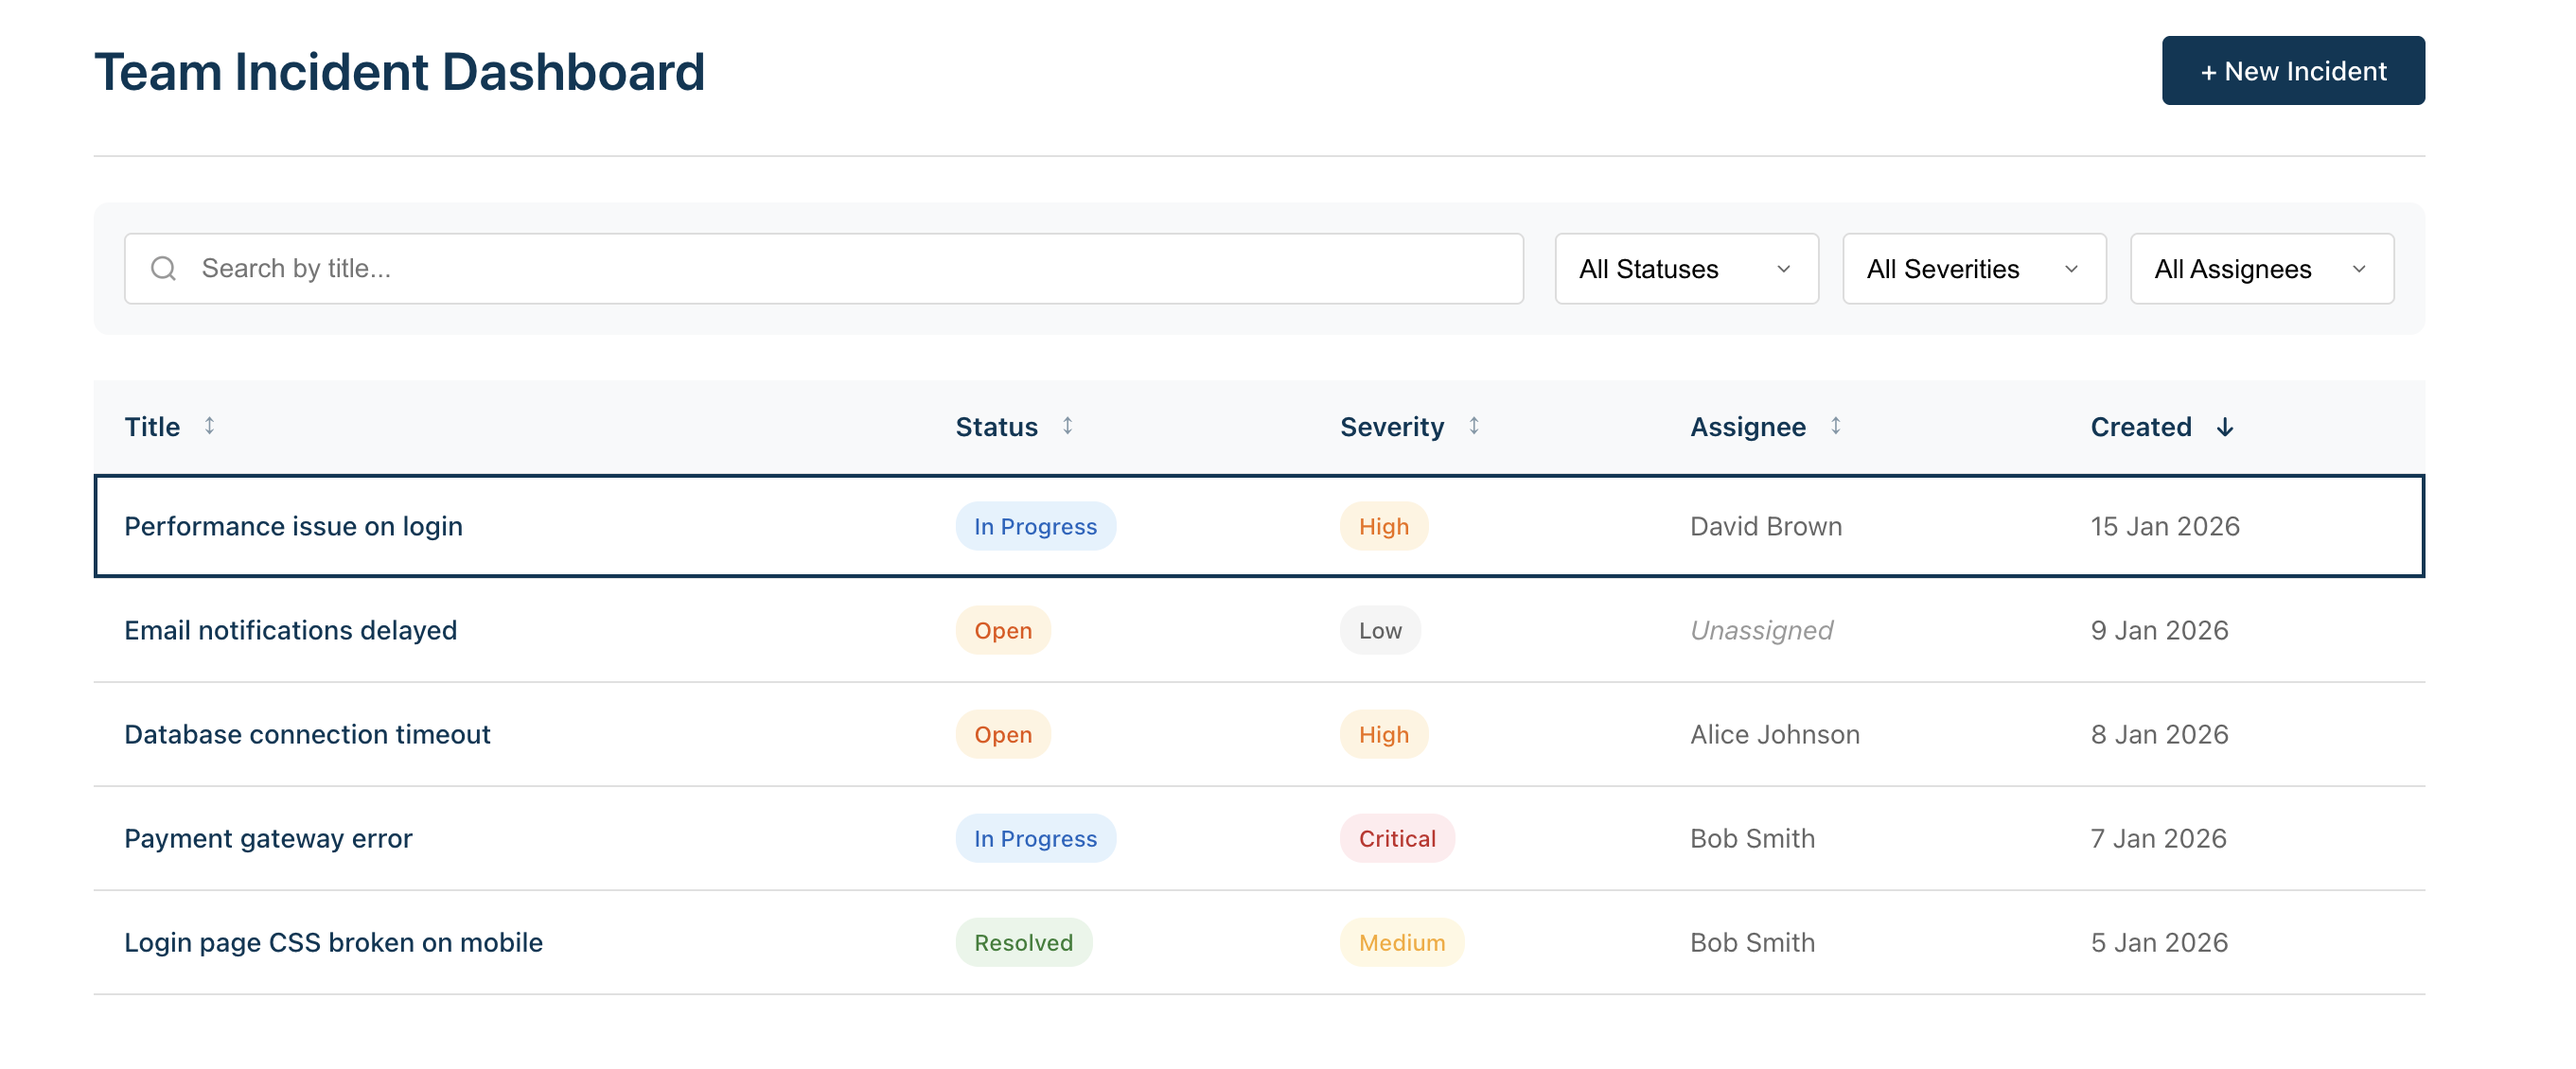
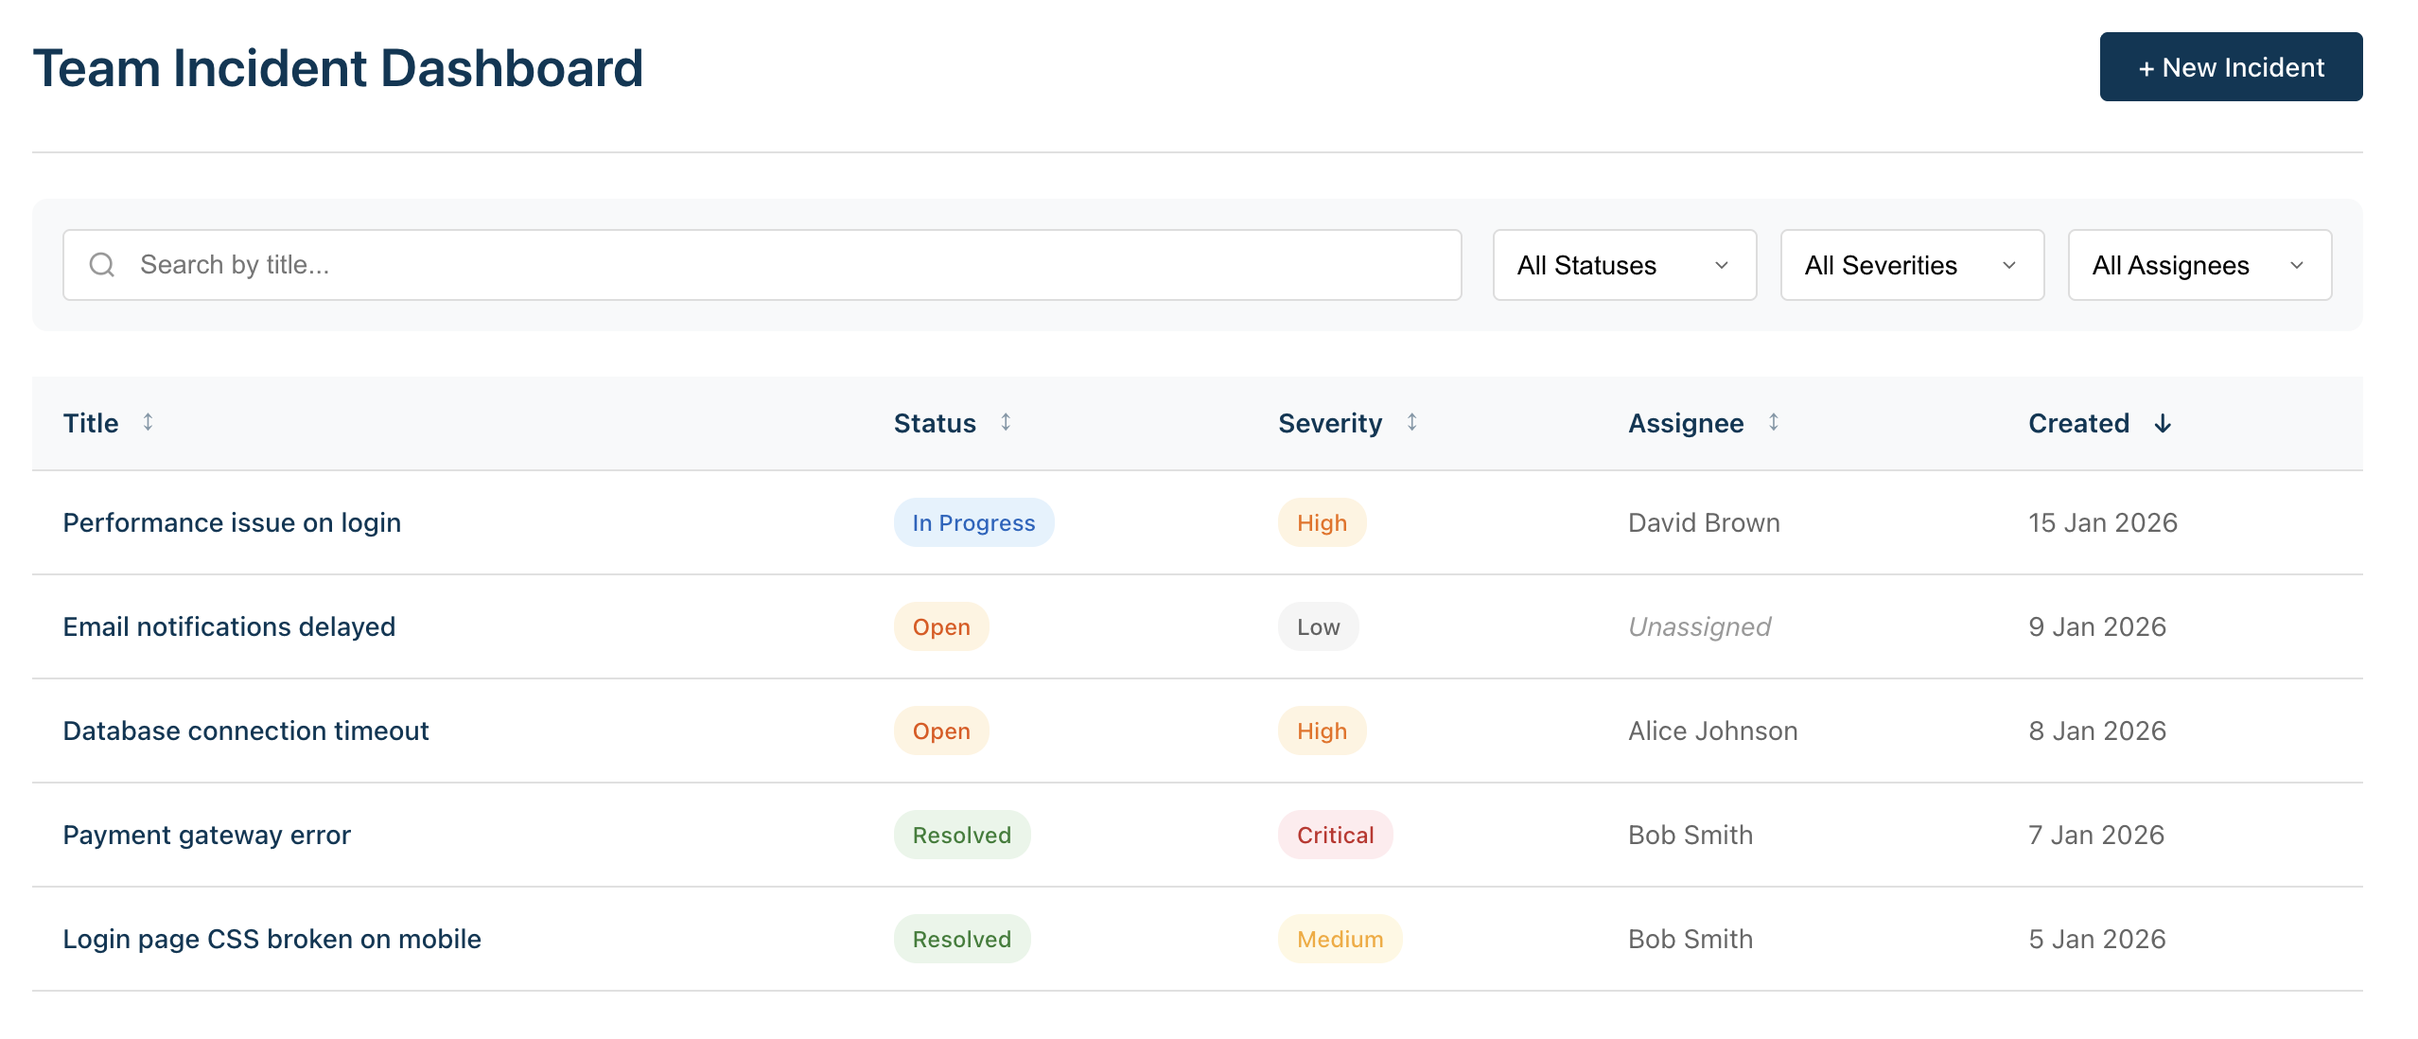
UI improvements

diff --git a/src/components/IncidentList/IncidentList.tsx b/src/components/IncidentList/IncidentList.tsx
@@ -138,11 +138,19 @@ export function IncidentList({ onSelectIncident }: IncidentListProps) {
     onSelectIncident(incident);
   };
 
-  /** Handles keyboard navigation on rows (Enter/Space to select) */
-  const handleRowKeyDown = (e: React.KeyboardEvent, incident: Incident) => {
+  /** Handles keyboard navigation on rows (Enter/Space to select, Arrow keys to navigate) */
+  const handleRowKeyDown = (e: React.KeyboardEvent, incident: Incident, index: number) => {
     if (e.key === "Enter" || e.key === " ") {
       e.preventDefault();
       onSelectIncident(incident);
+    } else if (e.key === "ArrowDown") {
+      e.preventDefault();
+      const nextRow = e.currentTarget.nextElementSibling as HTMLElement | null;
+      nextRow?.focus();
+    } else if (e.key === "ArrowUp") {
+      e.preventDefault();
+      const prevRow = e.currentTarget.previousElementSibling as HTMLElement | null;
+      prevRow?.focus();
     }
   };
 
@@ -230,11 +238,11 @@ export function IncidentList({ onSelectIncident }: IncidentListProps) {
               </tr>
             </thead>
             <tbody>
-              {filteredAndSortedIncidents.map((incident) => (
+              {filteredAndSortedIncidents.map((incident, index) => (
                 <tr
                   key={incident.id}
                   onClick={() => handleRowClick(incident)}
-                  onKeyDown={(e) => handleRowKeyDown(e, incident)}
+                  onKeyDown={(e) => handleRowKeyDown(e, incident, index)}
                   tabIndex={0}
                   role="row"
                   aria-label={`Incident: ${incident.title}`}

diff --git a/src/components/IncidentList/IncidentList.module.css b/src/components/IncidentList/IncidentList.module.css
@@ -50,8 +50,13 @@
 }
 
 .table tbody tr:focus {
-  outline: 2px solid #003755;
-  outline-offset: -2px;
+  outline: none;
+  background-color: #e8f4fc;
+}
+
+.table tbody tr:focus-visible {
+  outline: none;
+  background-color: #e8f4fc;
 }
 
 .title {

diff --git a/src/components/FilterBar/FilterBar.module.css b/src/components/FilterBar/FilterBar.module.css
@@ -81,10 +81,11 @@
 
   .filters {
     width: 100%;
+    flex-direction: column;
   }
 
   .filterSelect {
-    flex: 1;
-    min-width: 0;
+    width: 100%;
+    min-width: 100%;
   }
 }

diff --git a/README.md b/README.md
@@ -261,7 +261,6 @@ src/
 
 *Viewing incident details with status history timeline. Edit mode allows changing status and assignee.*
 
-> **Note**: If screenshots are not included, run the app locally with `npm run dev` to see the UI.
 
 ---
 
